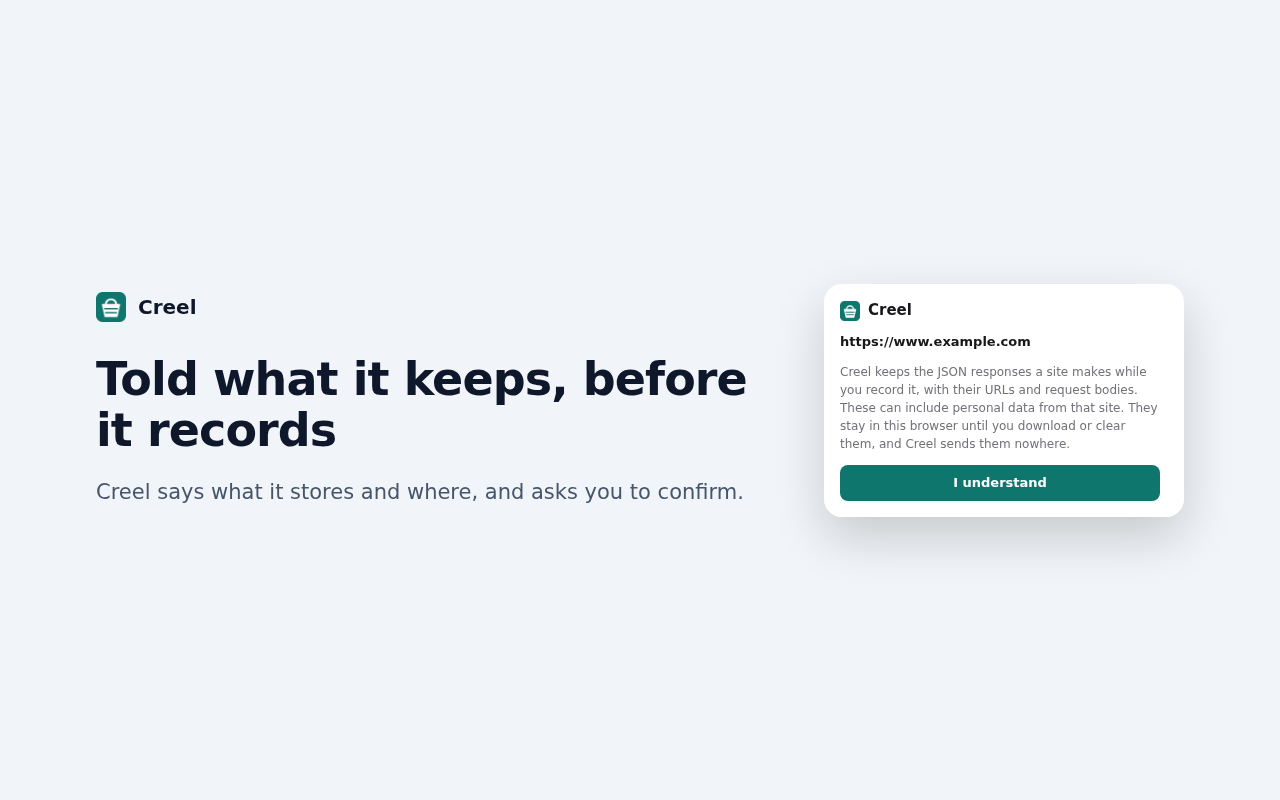
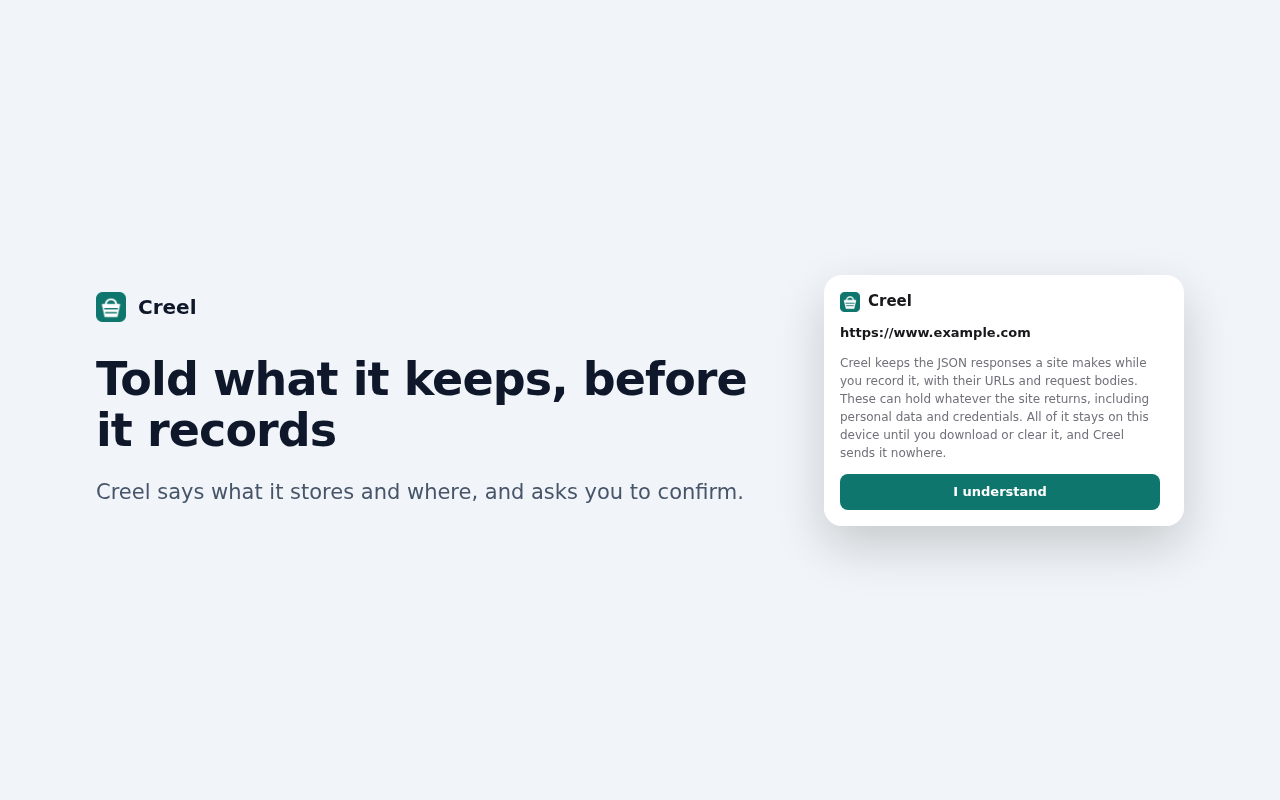
docs(store): record the five data boxes and say what responses can hold
Owner decision: Website content, User activity, Web history, Authentication
information and Personally identifiable information. facts.md gives each row its
box and reason; the listing carries the same Data usage answer. The consent
notice, the README Privacy section and the listing now say a response can hold
whatever the site returns, personal data and credentials included, and that all
of it stays on the device until downloaded or cleared. Screenshots recaptured.

Changed region(s): [[0.625, 0.3438, 0.9375, 0.6562]]

diff --git a/src/popup/state.test.ts b/src/popup/state.test.ts
@@ -168,7 +168,7 @@ test("copy is verbatim", () => {
     "Download or clear the https://app.example.com captures first.",
   );
   expect(COPY.CONSENT).toBe(
-    "Creel keeps the JSON responses a site makes while you record it, with their URLs and request bodies. These can include personal data from that site. They stay in this browser until you download or clear them, and Creel sends them nowhere.",
+    "Creel keeps the JSON responses a site makes while you record it, with their URLs and request bodies. These can hold whatever the site returns, including personal data and credentials. All of it stays on this device until you download or clear it, and Creel sends it nowhere.",
   );
   expect(COPY.denied(A)).toBe(
     "Creel needs access to https://app.example.com to record it.",

diff --git a/src/popup/state.ts b/src/popup/state.ts
@@ -3,7 +3,7 @@ import type { Session, Stats } from "../lib/types";
 
 export const COPY = {
   CONSENT:
-    "Creel keeps the JSON responses a site makes while you record it, with their URLs and request bodies. These can include personal data from that site. They stay in this browser until you download or clear them, and Creel sends them nowhere.",
+    "Creel keeps the JSON responses a site makes while you record it, with their URLs and request bodies. These can hold whatever the site returns, including personal data and credentials. All of it stays on this device until you download or clear it, and Creel sends it nowhere.",
   ACCEPT: "I understand",
   EMPTY: "Open the site you want to record, then press Record.",
   UNSUPPORTED: "Creel can't record this page.",

diff --git a/store/facts.md b/store/facts.md
@@ -47,17 +47,19 @@ Note: captures travel from the page script to the relay by `window.postMessage(m
 
 ## Data
 
-Everything the extension reads, sends or stores, on the device included. Boxes stay `Undecided` until the owner decides, having read the descriptions under "Dashboard wording".
+Everything the extension reads, sends or stores, on the device included. The boxes below were decided by the owner on 2026-11-05 after reading the descriptions under "Dashboard wording".
 
-| What is handled                                                                                                                                                                        | Where it goes                                                           | Shows which sites the user is on? | Store box | Why                                                                                                                                                      |
-| -------------------------------------------------------------------------------------------------------------------------------------------------------------------------------------- | ----------------------------------------------------------------------- | --------------------------------- | --------- | -------------------------------------------------------------------------------------------------------------------------------------------------------- |
-| Response bodies (JSON objects or arrays) of the recorded site's same-site `fetch`/XHR calls, which on a logged-in site can hold personal, financial, authentication or message content | IndexedDB on the device until Clear; then the ZIP in `Downloads/creel/` | Yes (the site's own content)      | Undecided | Must be disclosed: Google's text covers data stored locally. Which box is a judgement (inference: website content, plus others by what the site returns) |
-| Request URLs, including query strings, and the page URL of each capture                                                                                                                | IndexedDB, then `_requests.json` in the ZIP                             | Yes                               | Undecided | Must be disclosed. Google's text names "domains or URLs the browser interacts with" as web browsing activity; the box name is an inference               |
-| Request bodies (text, URLSearchParams), which may include form data or credentials of the site's own calls                                                                             | IndexedDB, then `_requests.json`                                        | Weaker                            | Undecided | Must be disclosed. Box depends on what the site sends                                                                                                    |
-| Method, HTTP status, capture time                                                                                                                                                      | IndexedDB, then `_requests.json`                                        | Weaker                            | Undecided | Metadata of the above; disclosed with them                                                                                                               |
-| The recorded origin and session state (recording flag, start time, counts)                                                                                                             | `chrome.storage.local`, device only                                     | Yes (one site the user chose)     | Undecided | Must be disclosed; a site the user picked is weaker than a log of visits                                                                                 |
-| Active tab URL, read when the popup opens                                                                                                                                              | Memory; shown in the popup; origin stored once the user presses Record  | Yes                               | Undecided | Same as the row above                                                                                                                                    |
-| Download file name `creel/<host>-<date>.zip`                                                                                                                                           | Local disk                                                              | Yes                               | Undecided | Host name in a file name on the user's own disk                                                                                                          |
+| What is handled                                                                             | Where it goes                                                           | Shows which sites the user is on? | Store box                                            | Why                                                                                                                                                                                         |
+| ------------------------------------------------------------------------------------------- | ----------------------------------------------------------------------- | --------------------------------- | ---------------------------------------------------- | ------------------------------------------------------------------------------------------------------------------------------------------------------------------------------------------- |
+| Response bodies (JSON objects or arrays) of the recorded site's same-site `fetch`/XHR calls | IndexedDB on the device until Clear; then the ZIP in `Downloads/creel/` | Yes (the site's own content)      | Website content; Personally identifiable information | Must be disclosed. Owner decision 2026-11-05: the bodies are page content, and on a logged-in site they hold names and email addresses                                                      |
+| Request URLs, including query strings, and the page URL of each capture, with capture time  | IndexedDB, then `_requests.json` in the ZIP                             | Yes                               | Web history                                          | Must be disclosed. Owner decision: the form describes Web history as pages visited with associated data such as title and time of visit, which the URL list with its times fits (inference) |
+| Request bodies (text, URLSearchParams), unredacted                                          | IndexedDB, then `_requests.json`                                        | Weaker                            | Authentication information                           | Must be disclosed. Owner decision: a recorded login holds the password or token that was sent                                                                                               |
+| Method, HTTP status, capture time                                                           | IndexedDB, then `_requests.json`                                        | Weaker                            | User activity                                        | Must be disclosed. Owner decision: recording fetch and XHR fits the box's own example, "network monitoring"                                                                                 |
+| The recorded origin and session state (recording flag, start time, counts)                  | `chrome.storage.local`, device only                                     | Yes (one site the user chose)     | Web history                                          | Must be disclosed; covered by the Web history box with the URLs                                                                                                                             |
+| Active tab URL, read when the popup opens                                                   | Memory; shown in the popup; origin stored once the user presses Record  | Yes                               | Web history                                          | Same as the row above                                                                                                                                                                       |
+| Download file name `creel/<host>-<date>.zip`                                                | Local disk                                                              | Yes                               | Web history                                          | Host name in a file name on the user's own disk; no extra box                                                                                                                               |
+
+Boxes left unticked by the owner's decision: Personal communications, Health information, Financial and payment information, Location. Creel cannot know what a recorded site returns, so a response can hold these too; the README and the consent notice say it holds "whatever the site returns". The three certifications all stand.
 
 Stored unencrypted: IndexedDB and `chrome.storage.local` are not encrypted by the extension, and the ZIP is a plain file. Captures stay until the user presses Clear. No user data is placed in a URL by the extension (it makes no requests).
 
@@ -95,4 +97,4 @@ Heading: "What user data do you plan to collect from users now or in the future?
 
 Certifications, all three required: "I do not sell or transfer user data to third parties, outside of the approved use cases"; "I do not use or transfer user data for purposes that are unrelated to my item's single purpose"; "I do not use or transfer user data to determine creditworthiness or for lending purposes".
 
-Candidates for Creel (inference, not decided): User activity names "network monitoring", which is what a fetch and XHR recorder does; Web history (request and page URLs, with time); Website content (response bodies); Authentication information, Personally identifiable information, Personal communications and Financial and payment information only if the recorded site's responses carry them, which Creel cannot know. All stay `Undecided` until the owner decides.
+Decision (owner, 2026-11-05): tick Website content, User activity, Web history, Authentication information, Personally identifiable information. Reasons per row in the Data table. Earlier candidates: User activity names "network monitoring", which is what a fetch and XHR recorder does; Web history (request and page URLs, with time); Website content (response bodies); Authentication information, Personally identifiable information, Personal communications and Financial and payment information only if the recorded site's responses carry them, which Creel cannot know.

diff --git a/store/listing.md b/store/listing.md
@@ -56,7 +56,7 @@ How it works:
 
 It keeps fetch and XMLHttpRequest responses that are JSON objects or arrays and come from the same domain as the page: subdomains count, other domains do not. Binary files, other domains and embedded frames are not recorded.
 
-Privacy: while you record, the responses, URLs and text request bodies of the website you chose are read. They can contain personal data from it. They stay in your browser until you download or clear them, and nothing is sent to any server. There is no account and no analytics, and the stored data is not encrypted. Full policy: https://github.com/meysam81/creel#privacy
+Privacy: while you record, the responses, URLs and text request bodies of the website you chose are read. They can hold whatever the site returns, including personal data and credentials. All of it stays on your device until you download or clear it, and nothing is sent to any server. There is no account and no analytics, and the stored data is not encrypted. Full policy: https://github.com/meysam81/creel#privacy
 ```
 
 ### Single purpose
@@ -86,7 +86,15 @@ No. All code ships in the package; Creel makes no network request of its own.
 ### Data usage
 
 ```plaintext
-Undecided: the owner decides after reading the dashboard descriptions (recorded in store/facts.md). Data handled (see store/facts.md): response bodies, request URLs and text request bodies of the recorded site, the page address, the site chosen, and the recording state. All of it stays on the device. Candidate boxes: User activity, Web history, Website content, and, because recorded responses can carry them, Authentication information, Personally identifiable information, Personal communications, Financial and payment information. Certifications: tick all three only when each is true: not sold to third parties, not used for purposes unrelated to the single purpose, not used for creditworthiness or lending.
+Tick five boxes (decided by the owner, 2026-11-05; reasons in store/facts.md):
+- Website content: the response bodies of the recorded site
+- User activity: recording fetch and XHR calls fits "network monitoring"
+- Web history: request and page URLs with their capture times
+- Authentication information: request bodies are kept unredacted, so a recorded login holds its credentials
+- Personally identifiable information: names and email addresses in logged-in responses
+Leave unticked: Personal communications, Health information, Financial and payment information, Location.
+Certifications: tick all three. They stand: user data is not sold or transferred to third parties, not used for anything unrelated to the single purpose, and not used for creditworthiness or lending.
+All of it stays on the device.
 ```
 
 ### Test instructions
@@ -117,7 +125,7 @@ How it works:
 
 It keeps fetch and XMLHttpRequest responses that are JSON objects or arrays and come from the same domain as the page: subdomains count, other domains do not. Binary files, other domains and embedded frames are not recorded.
 
-Privacy: while you record, the responses, URLs and text request bodies of the website you chose are read. They can contain personal data from it. They stay in your browser until you download or clear them, and nothing is sent to any server. There is no account and no analytics, and the stored data is not encrypted. Full policy: https://github.com/meysam81/creel#privacy
+Privacy: while you record, the responses, URLs and text request bodies of the website you chose are read. They can hold whatever the site returns, including personal data and credentials. All of it stays on your device until you download or clear it, and nothing is sent to any server. There is no account and no analytics, and the stored data is not encrypted. Full policy: https://github.com/meysam81/creel#privacy
 ```
 
 ### Notes for certification
@@ -151,7 +159,7 @@ Creel is an API response recorder. Press Record on a website and browse as usual
 - Same-domain responses only: subdomains count, other domains do not
 - Stop and resume, a live count, and Clear
 
-Data: while you record, the responses, URLs and text request bodies of the website you chose are read. They can contain personal data from it. They are stored in your browser until you download or clear them, and are not transmitted anywhere. They are not encrypted. Policy: https://github.com/meysam81/creel#privacy
+Data: while you record, the responses, URLs and text request bodies of the website you chose are read. They can hold whatever the site returns, including personal data and credentials. All of it stays on the device until you download or clear it, and is not transmitted anywhere. They are not encrypted. Policy: https://github.com/meysam81/creel#privacy
 ```
 
 ### Reviewer notes

diff --git a/README.md b/README.md
@@ -41,16 +41,17 @@ JSON responses that the pages of that site receive from the same site. For each
 one it keeps the response body, the request URL (query string included), the
 request method, the request body when it is text, the status, the address of the
 page that made the request, and the time. It also keeps the site you chose and
-the state of the recording. These can include personal data from that site,
-such as names, messages, account details or tokens, if the site's own responses
-contain them. Creel does not look inside them or pick anything out.
+the state of the recording. A response or a request body can hold whatever the
+site returns or sends, including personal data (names, email addresses) and
+credentials (a recorded login holds the password or token that was sent). Creel
+does not look inside them, redact them or pick anything out.
 
 **What it is used for.** Only to build the ZIP you ask for, and to show a count
 and the latest file names in the popup. Nothing else uses it.
 
 **Where it goes.** Nowhere. Creel makes no network request of its own, has no
-account, no analytics and no server. The recorded data stays in your browser's
-extension storage (IndexedDB and `chrome.storage`) until you press **Clear**.
+account, no analytics and no server. All of it stays on your device, in your browser's
+extension storage (IndexedDB and `chrome.storage`), until you press **Clear**.
 The ZIP is saved to your Downloads folder, in `creel/`, when you press
 **Download ZIP**. Creel does not encrypt the stored data or the ZIP: anyone with
 access to your browser profile or to the file can read it. What you do with the
